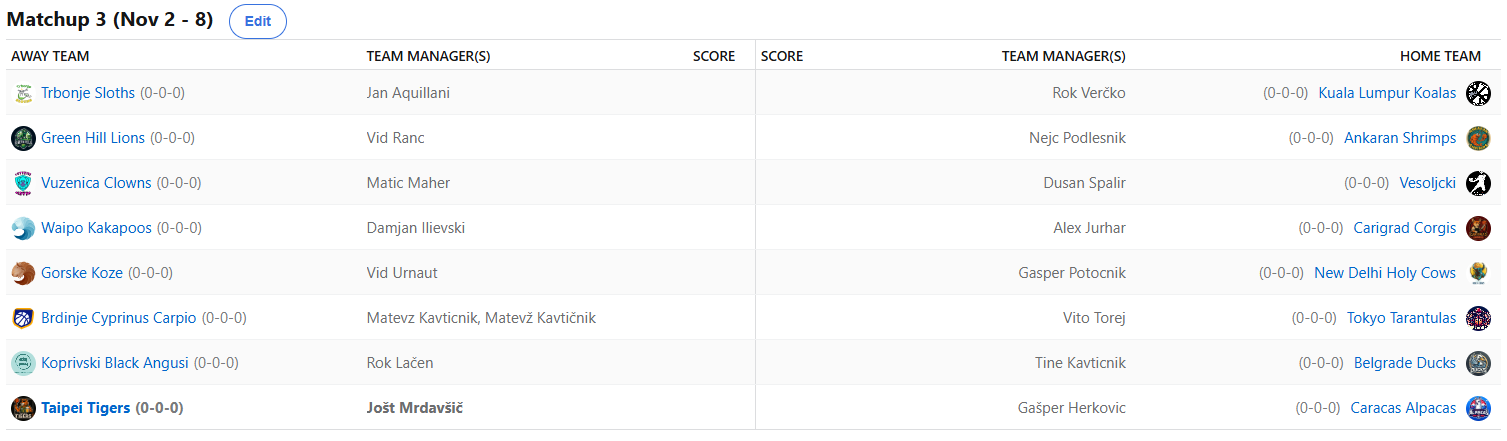
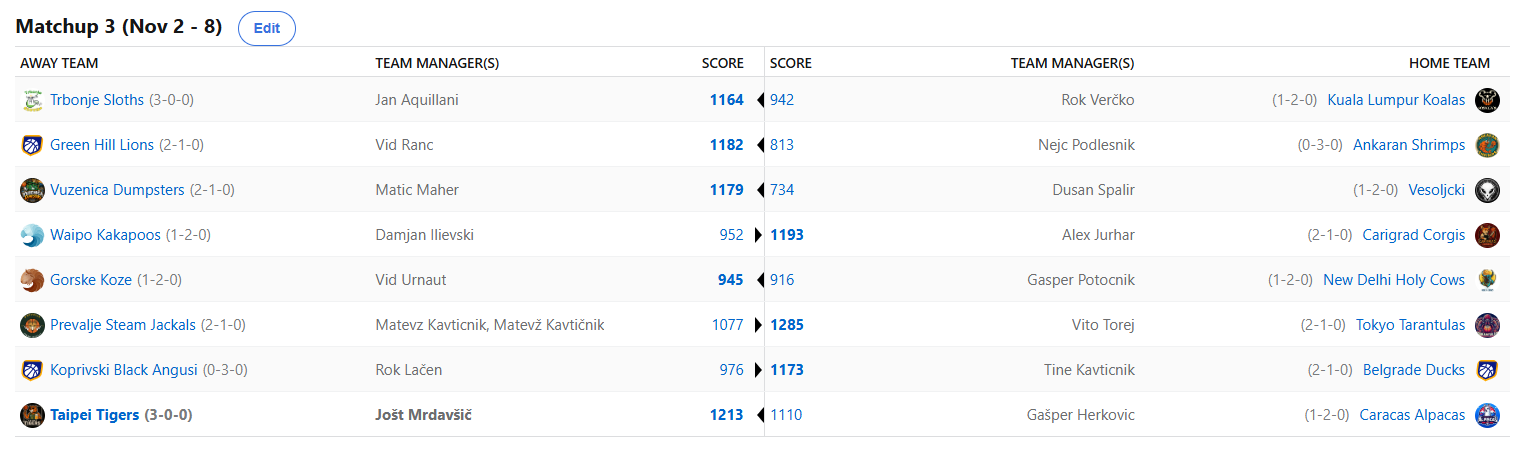
.

diff --git a/krogi2627/matchup3.html b/krogi2627/matchup3.html
@@ -54,13 +54,13 @@ document.addEventListener("DOMContentLoaded", function() {{
                 <details>
                     <summary>Predictions</summary>
                     <h3>Lestvica</h3>
-                    <img src="matchup3_lestvica.png" alt="Predictions - lestvica, matchup 3">
+                    <img src="mup3lestvica.png" alt="Predictions - lestvica, matchup 3">
                     <h3>Točke v krogu</h3>
-                    <img src="matchup3_tocke.png" alt="Predictions - točke v krogu, matchup 3">
+                    <img src="mup3pregled.png" alt="Predictions - točke v krogu, matchup 3">
                     <h3>Matchups</h3>
-                    <img src="matchup3_matchups.png" alt="Predictions - matchups, matchup 3">
+                    <img src="mup3mups.png" alt="Predictions - matchups, matchup 3">
                     <h3>Bonusi</h3>
-                    <img src="matchup3_bonusi.png" alt="Predictions - bonusi, matchup 3">
+                    <img src="mup3bonusi.png" alt="Predictions - bonusi, matchup 3">
                 </details>
 
                 <details>
